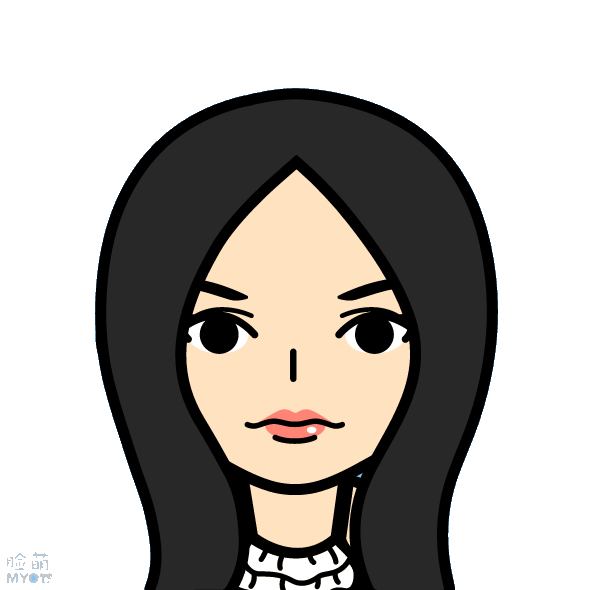
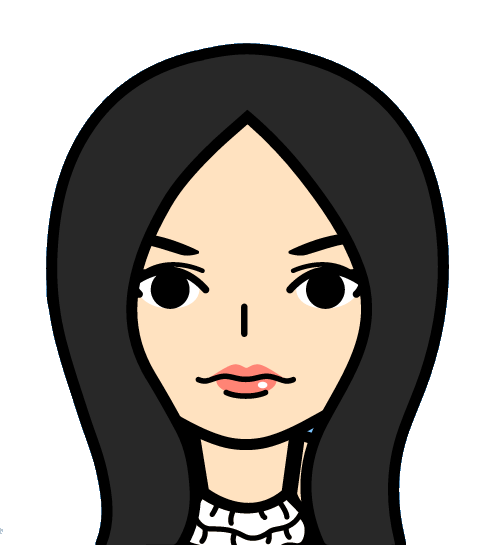
edit img

diff --git a/index.html b/index.html
@@ -14,17 +14,20 @@
 
     		border:1px solid rgb(51,51,51);
     	}
+    	.gray{
+    		background: rgb(200,200,200)
+    	}
     </style>
   </head>
   <body>
-  	 <div class="container">
+  	 <div class="container gray">
   	 	<div class="row">
 			<div class="col-xs-12 border">
 				<h1 class="text-center">HELLO GECIMAO<small> --PI</small></h1>
 			</div>
 			
 			<div class="col-xs-12">
-				<<img class="text-center" src="./image/gc1.png" alt="gecimiao" class="img-circle">
+				<img  src="./image/gc1.png" style="width:300px" alt="gecimiao" class="img-circle text-center">
 				
 			</div> 	 	
 		</div>	
